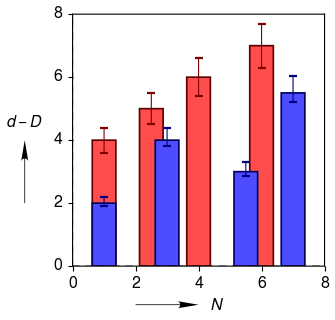
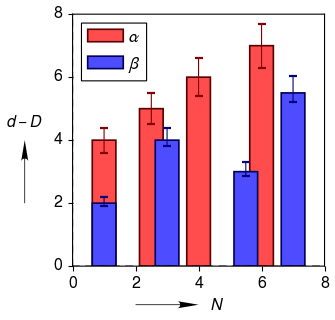
Fixed bug where user specified labels would be lost in  pf.plot_markers() and pf.plot_bars().  Updated bar_plot example to explicitly specify the input variable names label, x_label, and y_label.

Changed region(s): [[0.2388, 0.0625, 0.4478, 0.2812]]

diff --git a/clearplot/plot_functions.py b/clearplot/plot_functions.py
@@ -272,7 +272,6 @@ def plot_markers(filename, x, y, labels = [None], \
     --------
     plot_functions.plot()
     """
-    labels = kwargs.pop('labels', [None])
     legend = kwargs.pop('legend', 'auto')
     legend_loc = kwargs.pop('legend_loc', 'best')
     legend_outside_ax = kwargs.pop('legend_outside_ax', False)
@@ -395,7 +394,6 @@ def plot_bars(filename, x, y, labels = [None], \
     bars: list
         Bar objects
     """
-    labels = kwargs.pop('labels', [None])
     legend = kwargs.pop('legend', 'auto')
     legend_loc = kwargs.pop('legend_loc', 'best')
     legend_outside_ax = kwargs.pop('legend_outside_ax', False)

diff --git a/doc/source/examples/bar_plot/bar_plot.py b/doc/source/examples/bar_plot/bar_plot.py
@@ -14,7 +14,8 @@ xb = np.array([1, 3, 5.5, 7])
 yb = np.array([2, 4, 3, 5.5])
 yb_err = np.array([yb / 20.0, yb / 10.0])
 
-[fig, ax, bars] = pf.plot_bars('', [xa, xb], [ya, yb], ['\alpha', '\beta'], \
-	['N'], ['d-D'], widths = 0.75)
+[fig, ax, bars] = pf.plot_bars('', [xa, xb], [ya, yb], \
+    labels = ['\alpha', '\beta'], x_label = ['N'], y_label = ['d-D'], \
+    widths = 0.75)
 ax.plot_error_bars([xa, xb], [ya, yb], y_err = [ya_err, yb_err])
 fig.save('bar_plot.png')
